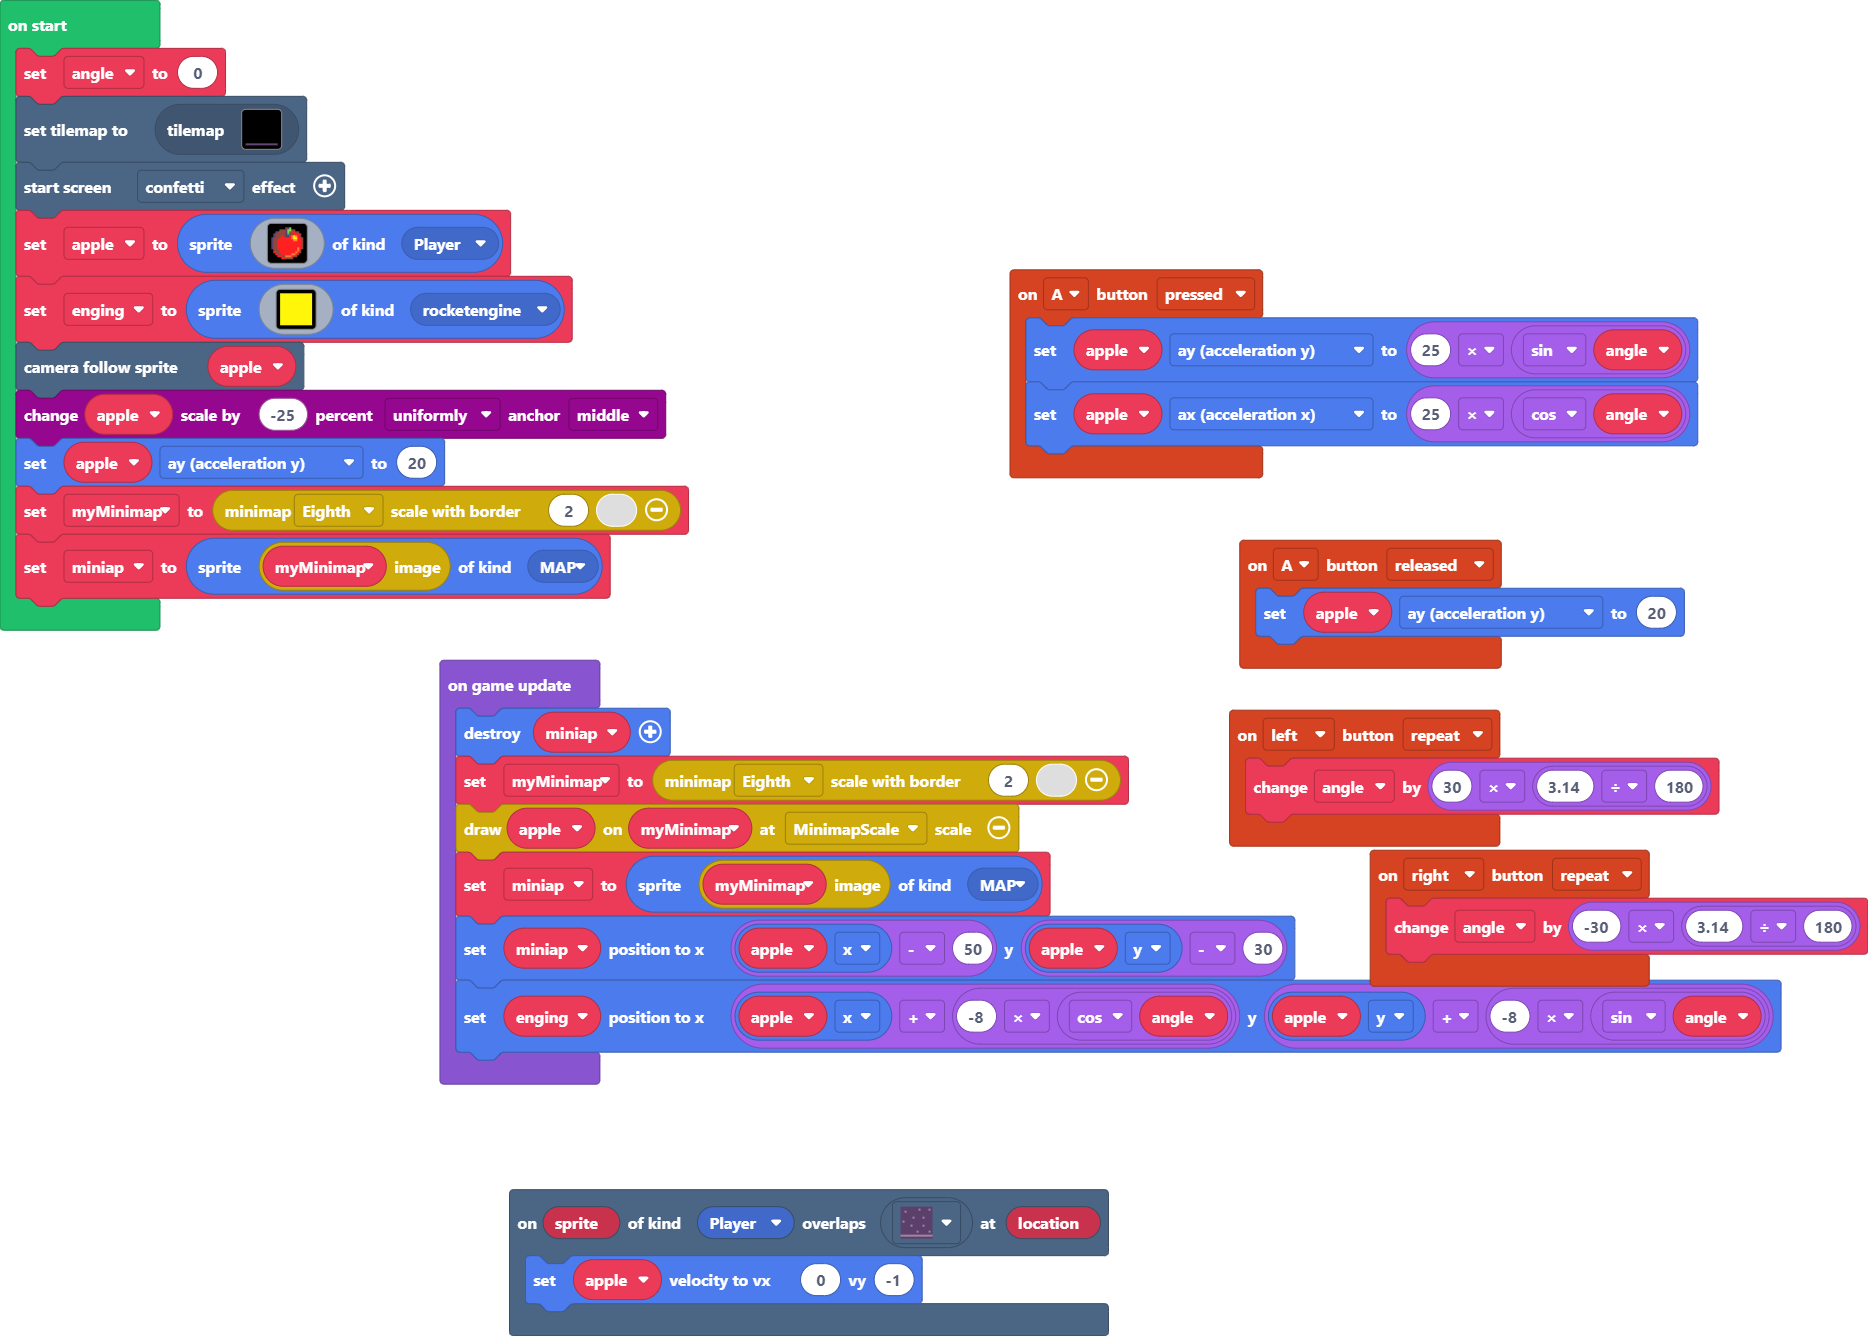
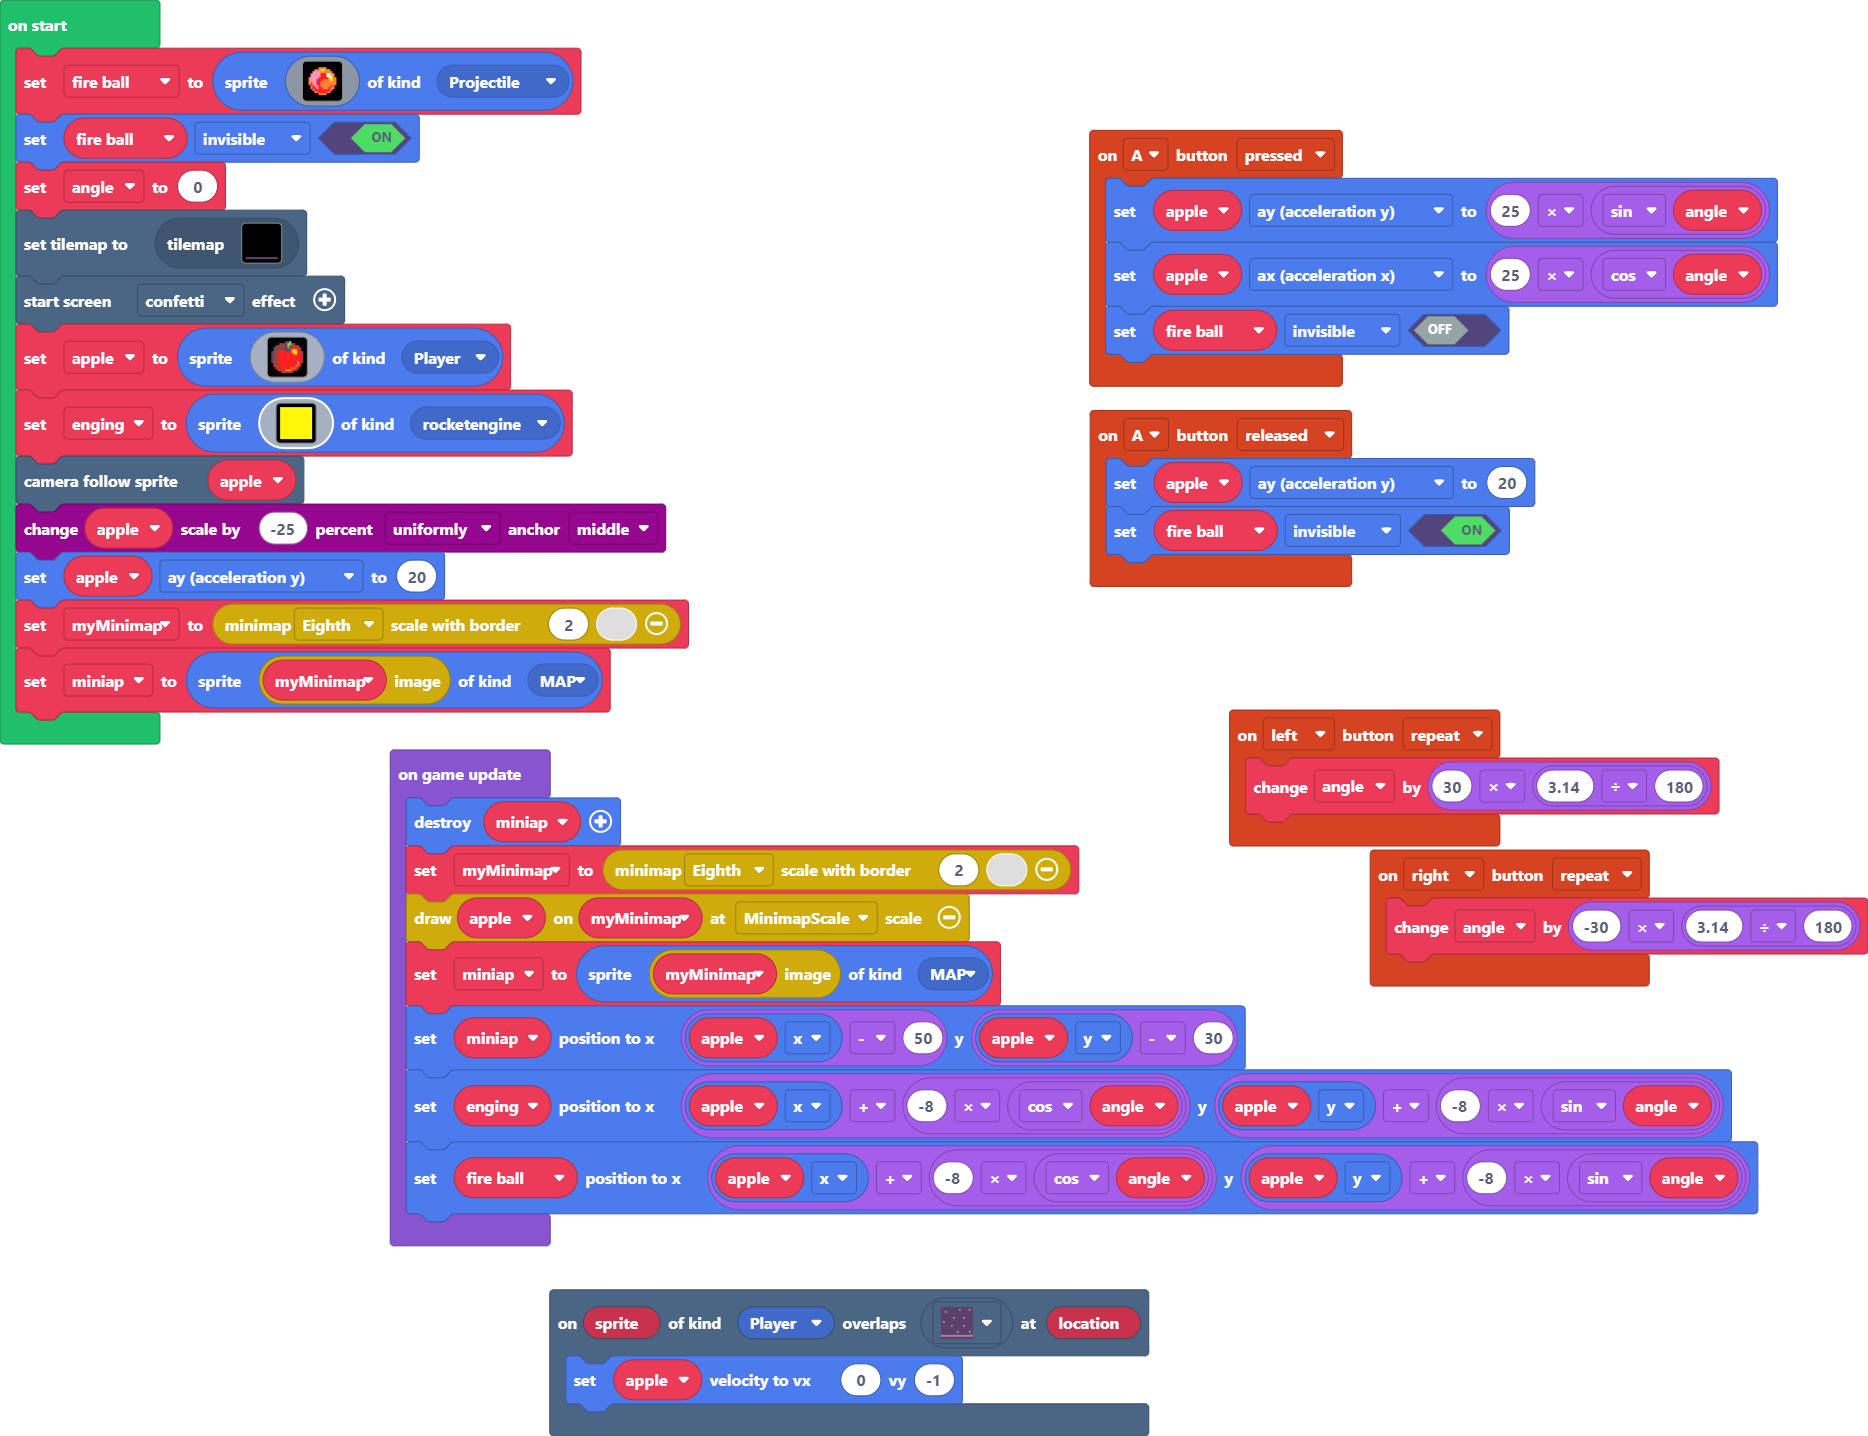
finish the fireball

diff --git a/main.ts b/main.ts
@@ -5,6 +5,7 @@ namespace SpriteKind {
 controller.A.onEvent(ControllerButtonEvent.Pressed, function () {
     apple.ay = 25 * Math.sin(angle)
     apple.ax = 25 * Math.cos(angle)
+    fire_ball.setFlag(SpriteFlag.Invisible, false)
 })
 controller.right.onEvent(ControllerButtonEvent.Repeated, function () {
     angle += -30 * (3.14 / 180)
@@ -14,12 +15,33 @@ scene.onOverlapTile(SpriteKind.Player, sprites.dungeon.darkGroundSouth, function
 })
 controller.A.onEvent(ControllerButtonEvent.Released, function () {
     apple.ay = 20
+    fire_ball.setFlag(SpriteFlag.Invisible, true)
 })
 controller.left.onEvent(ControllerButtonEvent.Repeated, function () {
     angle += 30 * (3.14 / 180)
 })
 let apple: Sprite = null
 let angle = 0
+let fire_ball: Sprite = null
+fire_ball = sprites.create(img`
+    . . . . . . . . . . . . . . . . 
+    . . . . . . 4 4 4 4 . . . . . . 
+    . . . . 4 4 4 5 5 4 4 4 . . . . 
+    . . . 3 3 3 3 4 4 4 4 4 4 . . . 
+    . . 4 3 3 3 3 2 2 2 1 1 4 4 . . 
+    . . 3 3 3 3 3 2 2 2 1 1 5 4 . . 
+    . 4 3 3 3 3 2 2 2 2 2 5 5 4 4 . 
+    . 4 3 3 3 2 2 2 4 4 4 4 5 4 4 . 
+    . 4 4 3 3 2 2 4 4 4 4 4 4 4 4 . 
+    . 4 2 3 3 2 2 4 4 4 4 4 4 4 4 . 
+    . . 4 2 3 3 2 4 4 4 4 4 2 4 . . 
+    . . 4 2 2 3 2 2 4 4 4 2 4 4 . . 
+    . . . 4 2 2 2 2 2 2 2 2 4 . . . 
+    . . . . 4 4 2 2 2 2 4 4 . . . . 
+    . . . . . . 4 4 4 4 . . . . . . 
+    . . . . . . . . . . . . . . . . 
+    `, SpriteKind.Projectile)
+fire_ball.setFlag(SpriteFlag.Invisible, true)
 angle = 0
 tiles.setCurrentTilemap(tilemap`level1`)
 effects.confetti.startScreenEffect()
@@ -57,4 +79,5 @@ game.onUpdate(function () {
     miniap = sprites.create(minimap.getImage(myMinimap), SpriteKind.MAP)
     miniap.setPosition(apple.x - 50, apple.y - 30)
     enging.setPosition(apple.x + -8 * Math.cos(angle), apple.y + -8 * Math.sin(angle))
+    fire_ball.setPosition(apple.x + -8 * Math.cos(angle), apple.y + -8 * Math.sin(angle))
 })
